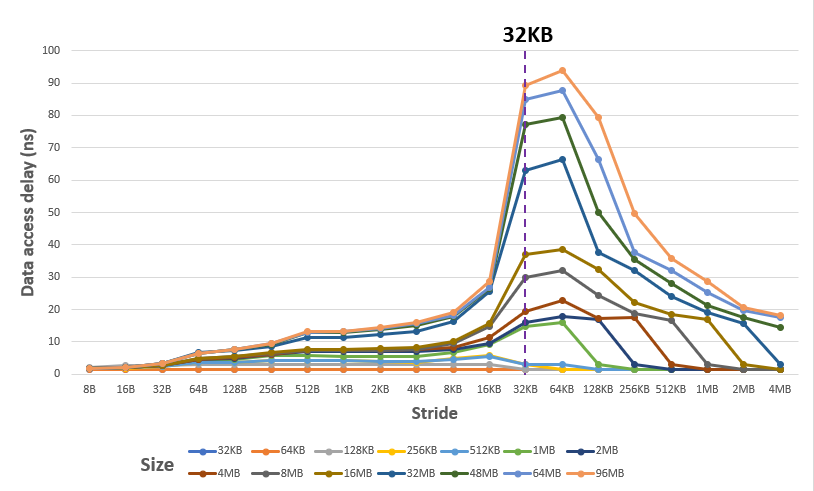
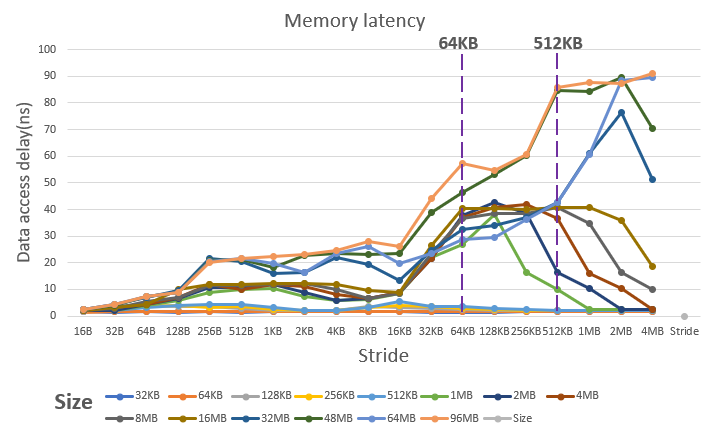
Fix bugs of testing for mem latency, got new result.

Changed region(s): [[0.0, 0.0, 1.0, 1.0], [0.0618, 0.9049, 0.8652, 0.9954]]

diff --git a/mem_latency.c b/mem_latency.c
@@ -10,8 +10,7 @@ typedef void* ptr_t;
 #define LEN(arr) (sizeof(arr) / sizeof(arr[0]))
 #define KB(n) (1024 * (n))
 #define MB(n) (1024 * 1024 * (n))
-#define REPEATS 24000000
-u_int64_t pointer_chasing(ptr_t *arr, int numb, int jump);
+u_int64_t pointer_chasing(ptr_t *arr, int numb, int jump, int* repeats);
 
 int main(int argc, char **argv) {
   int sizes[] = {
@@ -20,7 +19,7 @@ int main(int argc, char **argv) {
     MB(48), MB(64), MB(96)
   };
   int strides[] = {
-    8, 16, 32, 64, 128, 256, 512,
+    16, 32, 64, 128, 256, 512,
     KB(1), KB(2), KB(4), KB(8), KB(16), KB(32),
     KB(64), KB(128), KB(256), KB(512),
     MB(1), MB(2), MB(4)
@@ -32,13 +31,13 @@ int main(int argc, char **argv) {
       int size = sizes[i];
       int stride = strides[j];
       int numb = size / ELEMENT_SIZE;
-      int jump = stride / ELEMENT_SIZE;
+      int jump = stride / ELEMENT_SIZE - 1;
+      int repeats = 0;
       ptr_t *arr = malloc(size);
-      u_int64_t counter = pointer_chasing(arr, numb, jump);
+      u_int64_t counter = pointer_chasing(arr, numb, jump, &repeats);
       u_int64_t total_ns = counter * counter_ns();
-      printf(
-        "%10lu %10lu %5.2fns\n",
-        size, stride, (double)total_ns / REPEATS);
+      printf("%10lu %10lu %8.4f\n",
+        size, stride, (double)total_ns / (double)repeats);
       free(arr);
     }
     printf("\n");
@@ -47,26 +46,22 @@ int main(int argc, char **argv) {
   return 0;
 }
 
-// ------------------------------------------ //
-// Pointer chasing. It's not necessary for numb % jump == 0
-// Backward chasing. e.g,
-// arr[4] = arr + 0, arr[8] = arr + 4, arr[12] = arr + 8
-u_int64_t pointer_chasing(ptr_t *arr, int numb, int jump) {
+u_int64_t pointer_chasing(ptr_t *arr, int numb, int jump, int* repeats) {
   memset(arr, 0, numb * ELEMENT_SIZE);
+  *repeats = 0;
   register int i;
-  for (i = jump; i < numb; i += jump) {
-    arr[i] = arr + (i - jump);
+  for (i = 0; arr[i] == 0; i = (i + jump) % numb) {
+    arr[i] = arr + ((i + jump) % numb);
+    *repeats += 1;
   }
-  arr[0] = arr + (i - jump); // arr+(i-jump) point to last chasing element
 
-  register ptr_t *ptr = arr + (i - jump);
-  while (ptr > arr) ptr = *ptr; // warm-up from right to left
+  register ptr_t *ptr = arr[0];
+  do { ptr = *ptr; } while (ptr != arr);
 
   register u_int64_t counter;
+  *ptr = arr[0];
   TICK(counter);
-  for (i = 0; i < REPEATS; i+= 1000) {
-    X1000(ptr = *ptr;)
-  }
+  do { ptr = *ptr; } while (ptr != arr);
   TOCK(counter);
 
   return counter;
